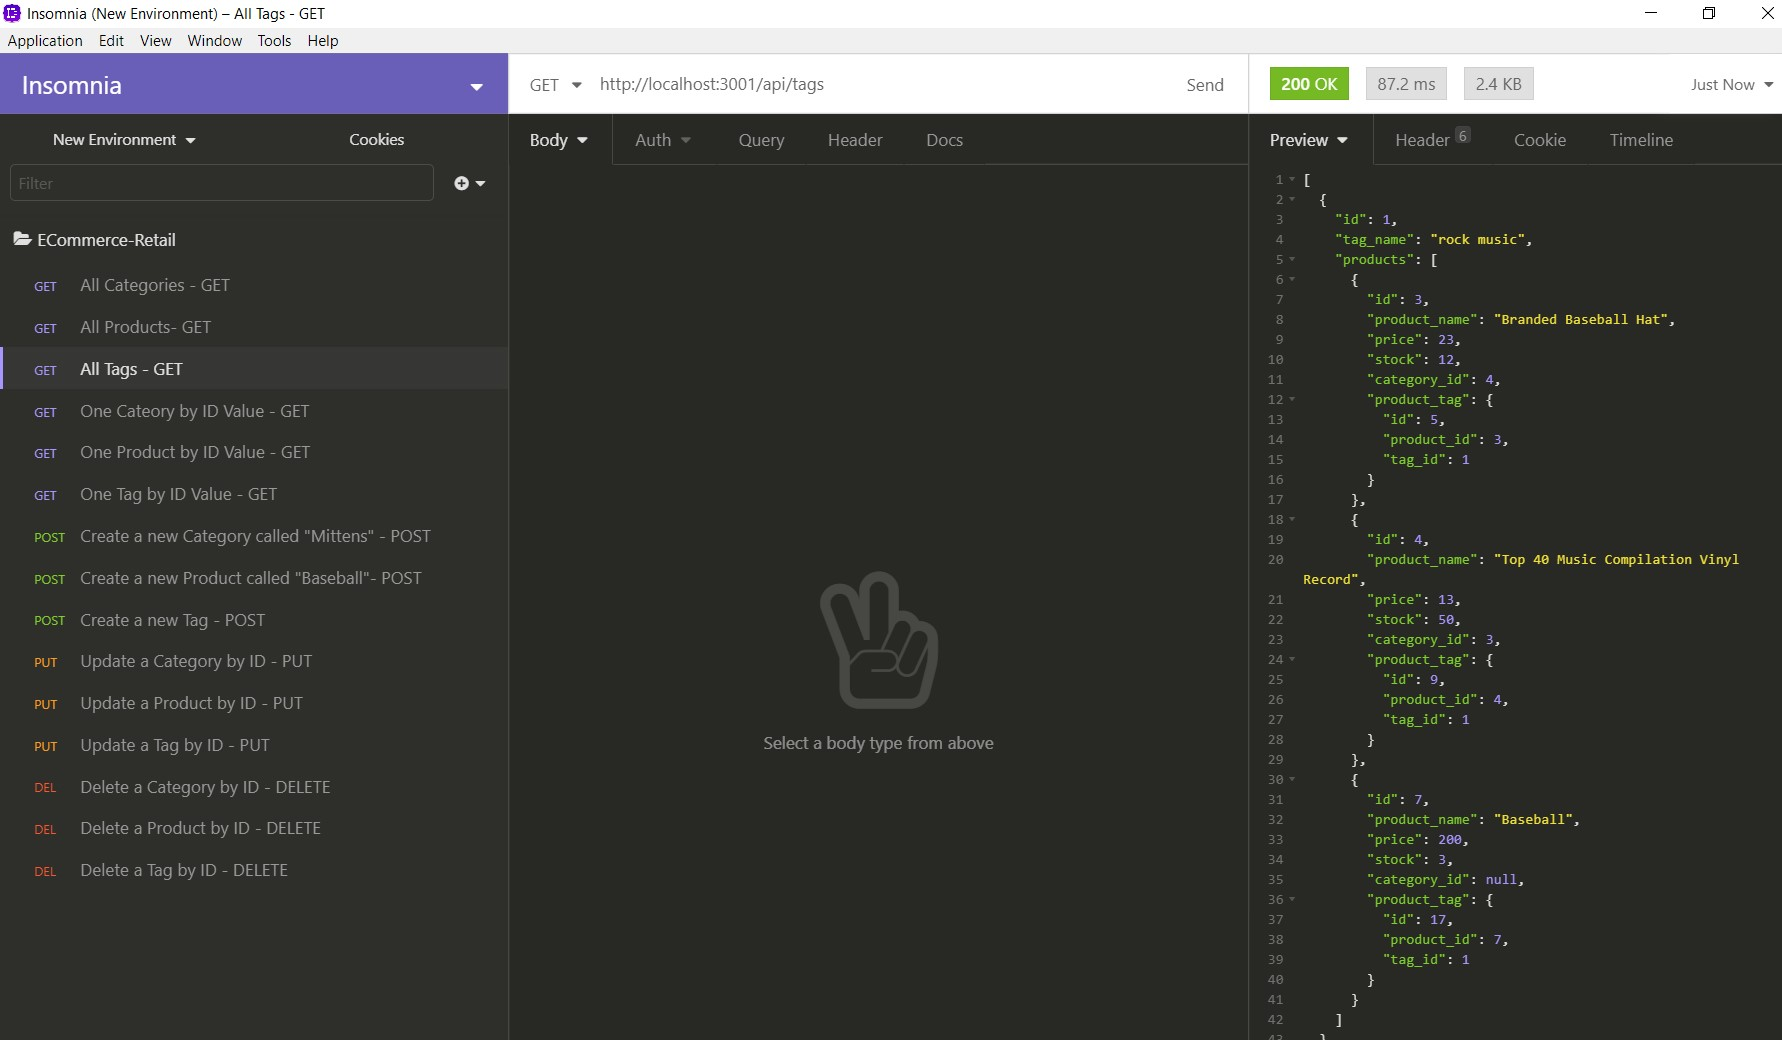
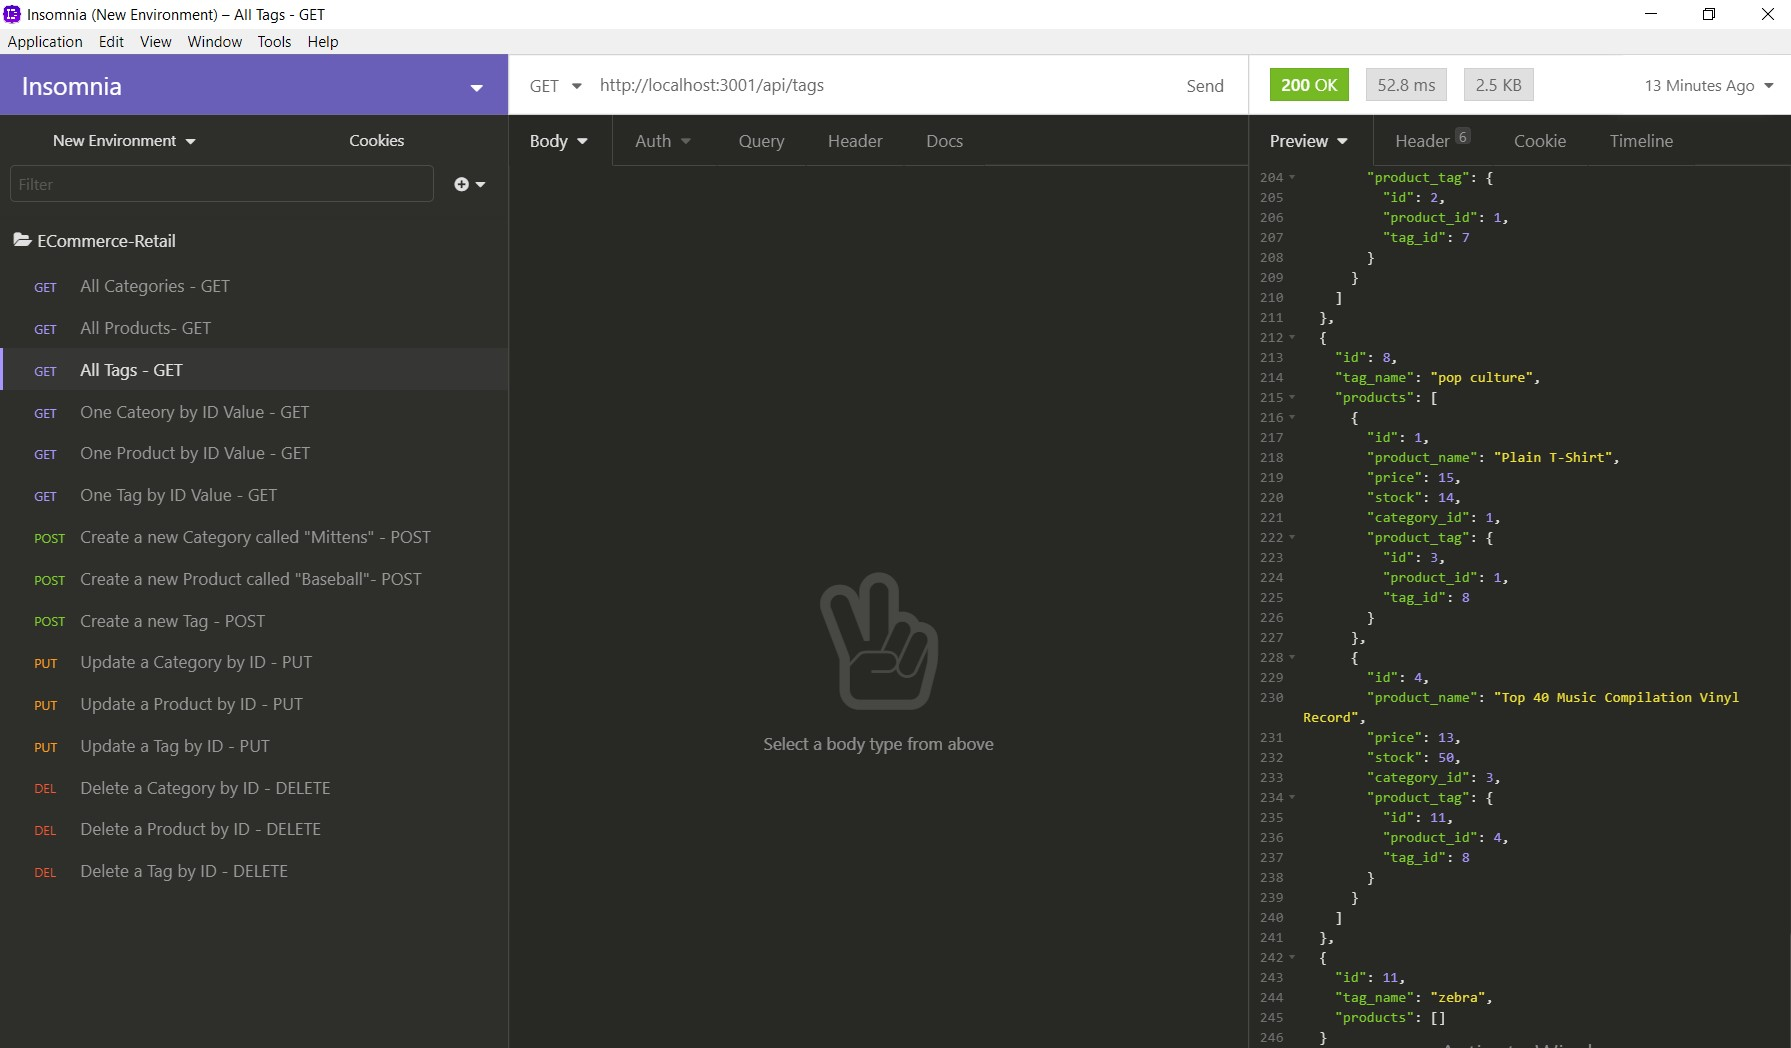
added walkthrough of all the routes through Insomnia tool

diff --git a/README.md b/README.md
@@ -4,7 +4,6 @@ This exercise focuses on backend and middleware: Sequelize object relational map
 ## GitHub repository
 https://github.com/ktrnthsnr/ecommerce-retail
 
-
 ## Table of Contents
 * [Description](#description)
 * [Installations](#installations)
@@ -14,7 +13,7 @@ https://github.com/ktrnthsnr/ecommerce-retail
 
 ## Description
 - Given a working Express.js API, the work for this e-commerce back-end project involves using MySQL2 and Sequelize models to interact with the MySQL database. 
-- Once invoking the app, `npm start`, Node.js will start the Express.js server and Sequelize will sync with the MySQL database, and create and seed the tables.  
+- Once invoking the app, `npm start`, Node.js will start the Express.js server and Sequelize will sync its models with the MySQL database, and create and seed the tables.
 - A walkthrough link under Usage below will demonstrate the API endpoints for each of the routes created. The Insomnia browser will render the JSON content based upon the Sequelize models, connecting to the backend tables via the API endpoints.
 
 ### The server-side work included:
@@ -56,7 +55,6 @@ https://github.com/ktrnthsnr/ecommerce-retail
 - `npm install body-parser --save`
 - Install Insomnia locally to test the GET, POST, PUT, and DELETE API endpoints per the routes.
 
-
 ## Usage
 - Within the VSCode terminal, start MySQL
 -   $ `mysql -u root -p`
@@ -81,10 +79,14 @@ https://github.com/ktrnthsnr/ecommerce-retail
 - Start the application:
 -   $ `npm start` or $ `node server.js`
 
-- Validate: View all rows within the Categories table, through a sample API endpoint. Open the Insomnia debug tool, enter a GET URL, `http://localhost:3001/api/categories`
+- Validate: View all rows within the Categories table, through a sample API endpoint. Open the Insomnia debug tool, enter a GET URL, `http://localhost:3001/api/categories`.  Other validation endpoints for all CRUD queries are listed in the routes files.
 
-- A walkthrough of how the application is invoked is included here, showing how the database and tables are created, rows seeded, and then validated at a route API endpoint.  The Category table is used as the example:
-https://drive.google.com/file/d/1jCFMWTOneYsJO5n4JwkTgSkcd4Nhx8xB/view
+- A walkthrough of how the Node.js Sequelize application works, from creating the mysql database and tables, to seeding and testing the GET, POST, PULL, and DELETE API routes via the Insomnia testing tool, (ran out of time on the delete route)
+https://drive.google.com/file/d/1IcyrSXyOH0As0uq-q9dNulYwxukrSoSX/view
+- The last bit of the  Screencastify walkthrough, the delete route, is included here https://drive.google.com/file/d/1RoKgs35hDoAKzQlkdaZBOlB3tPnM0x14/view
+
+- Insomnia GET route sample
+![Insomnia GET sample](./img/Insomnia-GETAllTags.jpg "Insomnia GET sample")
 
 ## Technology
 MySQL, MySQL2, Express.js, Sequelize, Node.js, JavaScript, npm, HTML, CSS, dotenv
